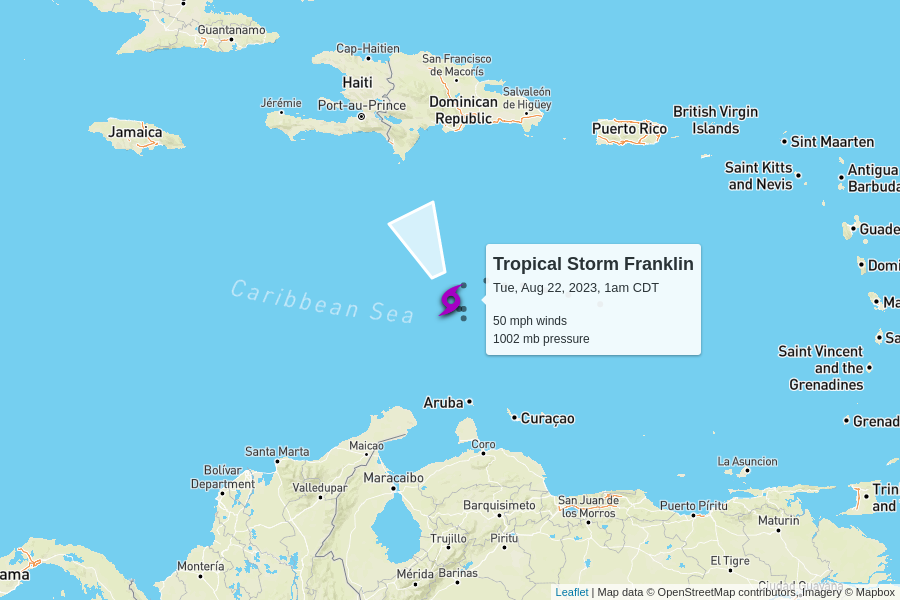
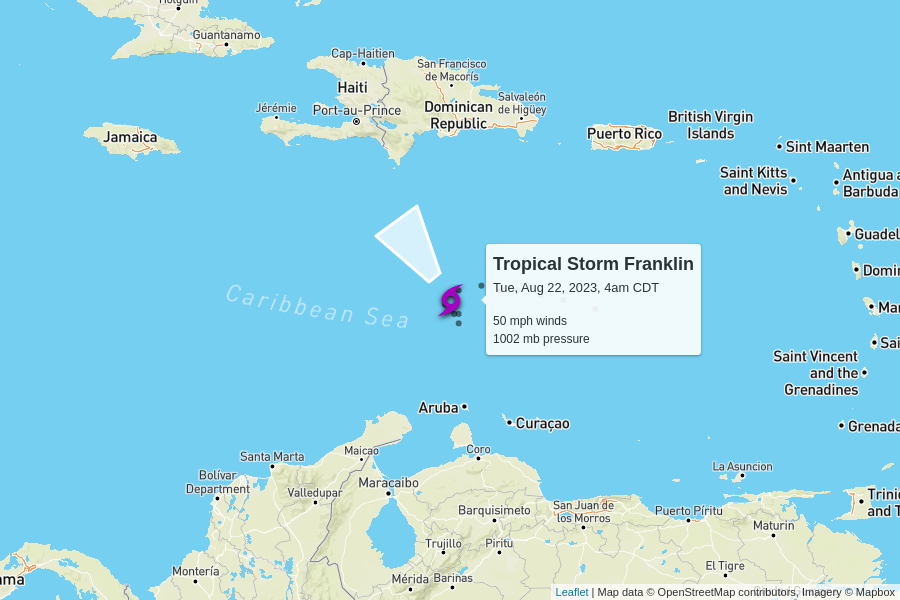
automatic update

diff --git a/docs/index.html b/docs/index.html
@@ -99,8 +99,52 @@
       <tr>
         <td colspan="6" class="storm category-0" >
           <h2>
+            Tropical Depression Gert
+            <p class="updated">last updated <span data-time>2023-08-22T09:00:00.000Z</span></p>
+          </h2>
+        </td>
+      </tr>
+      
+      <tr>
+        <th class="spacer"></th>
+        <th>wind speed</th>
+        <th>central pressure</th>
+        <th>movement</th>
+        <th>data (CSV)</th>
+        <th>National Hurricane Center</th>
+      </tr>
+      <tr>
+        <td class="spacer"></td>
+        <td>30 mph</td>
+        <td>1008 mb</td>
+        <td>
+          8 mph to the west-northwest
+          <br/>
+          <span style="display: inline-block; font-size: 1.5em; transform: rotate(285deg);">↑</span>
+        </td>
+        <td><a href="https://raw.githubusercontent.com/mgwalker/atlantic-hurricanes/main/data/csv/AL062023.csv">AL062023.csv</a></td>
+        <td><a href="https://www.nhc.noaa.gov/archive/2023/GERT.shtml?">NHC advisories</a></td>
+      </tr>
+      <tr id="storm_AL062023" >
+        <td class="spacer">
+        <td colspan="5">
+          <figure>
+            <img src="AL062023.png">
+            <figcaption>
+              Map data &copy; <a href="https://www.openstreetmap.org/copyright">OpenStreetMap</a> contributors,
+              Imagery &copy; <a href="https://www.mapbox.com/">Mapbox</a> |
+              <a href="https://www.mapbox.com/map-feedback/" target="_blank">Improve this map</a>
+            </figcaption>
+          </figure>
+        </td>
+      </tr>
+      
+
+      <tr>
+        <td colspan="6" class="storm category-0" >
+          <h2>
             Tropical Storm Franklin
-            <p class="updated">last updated <span data-time>2023-08-22T06:00:00.000Z</span></p>
+            <p class="updated">last updated <span data-time>2023-08-22T09:00:00.000Z</span></p>
           </h2>
         </td>
       </tr>
@@ -118,9 +162,9 @@
         <td>50 mph</td>
         <td>1002 mb</td>
         <td>
-          4 mph to the north-northwest
+          3 mph to the northwest
           <br/>
-          <span style="display: inline-block; font-size: 1.5em; transform: rotate(335deg);">↑</span>
+          <span style="display: inline-block; font-size: 1.5em; transform: rotate(325deg);">↑</span>
         </td>
         <td><a href="https://raw.githubusercontent.com/mgwalker/atlantic-hurricanes/main/data/csv/AL082023.csv">AL082023.csv</a></td>
         <td><a href="https://www.nhc.noaa.gov/archive/2023/FRANKLIN.shtml?">NHC advisories</a></td>
@@ -144,7 +188,7 @@
         <td colspan="6" class="storm category-0" >
           <h2>
             Tropical Storm Harold
-            <p class="updated">last updated <span data-time>2023-08-22T06:00:00.000Z</span></p>
+            <p class="updated">last updated <span data-time>2023-08-22T09:00:00.000Z</span></p>
           </h2>
         </td>
       </tr>
@@ -174,50 +218,6 @@
         <td colspan="5">
           <figure>
             <img src="AL092023.png">
-            <figcaption>
-              Map data &copy; <a href="https://www.openstreetmap.org/copyright">OpenStreetMap</a> contributors,
-              Imagery &copy; <a href="https://www.mapbox.com/">Mapbox</a> |
-              <a href="https://www.mapbox.com/map-feedback/" target="_blank">Improve this map</a>
-            </figcaption>
-          </figure>
-        </td>
-      </tr>
-      
-
-      <tr>
-        <td colspan="6" class="storm category-0" >
-          <h2>
-            Tropical Depression Gert
-            <p class="updated">last updated <span data-time>2023-08-22T03:00:00.000Z</span></p>
-          </h2>
-        </td>
-      </tr>
-      
-      <tr>
-        <th class="spacer"></th>
-        <th>wind speed</th>
-        <th>central pressure</th>
-        <th>movement</th>
-        <th>data (CSV)</th>
-        <th>National Hurricane Center</th>
-      </tr>
-      <tr>
-        <td class="spacer"></td>
-        <td>30 mph</td>
-        <td>1008 mb</td>
-        <td>
-          9 mph to the west-northwest
-          <br/>
-          <span style="display: inline-block; font-size: 1.5em; transform: rotate(285deg);">↑</span>
-        </td>
-        <td><a href="https://raw.githubusercontent.com/mgwalker/atlantic-hurricanes/main/data/csv/AL062023.csv">AL062023.csv</a></td>
-        <td><a href="https://www.nhc.noaa.gov/archive/2023/GERT.shtml?">NHC advisories</a></td>
-      </tr>
-      <tr id="storm_AL062023" >
-        <td class="spacer">
-        <td colspan="5">
-          <figure>
-            <img src="AL062023.png">
             <figcaption>
               Map data &copy; <a href="https://www.openstreetmap.org/copyright">OpenStreetMap</a> contributors,
               Imagery &copy; <a href="https://www.mapbox.com/">Mapbox</a> |
